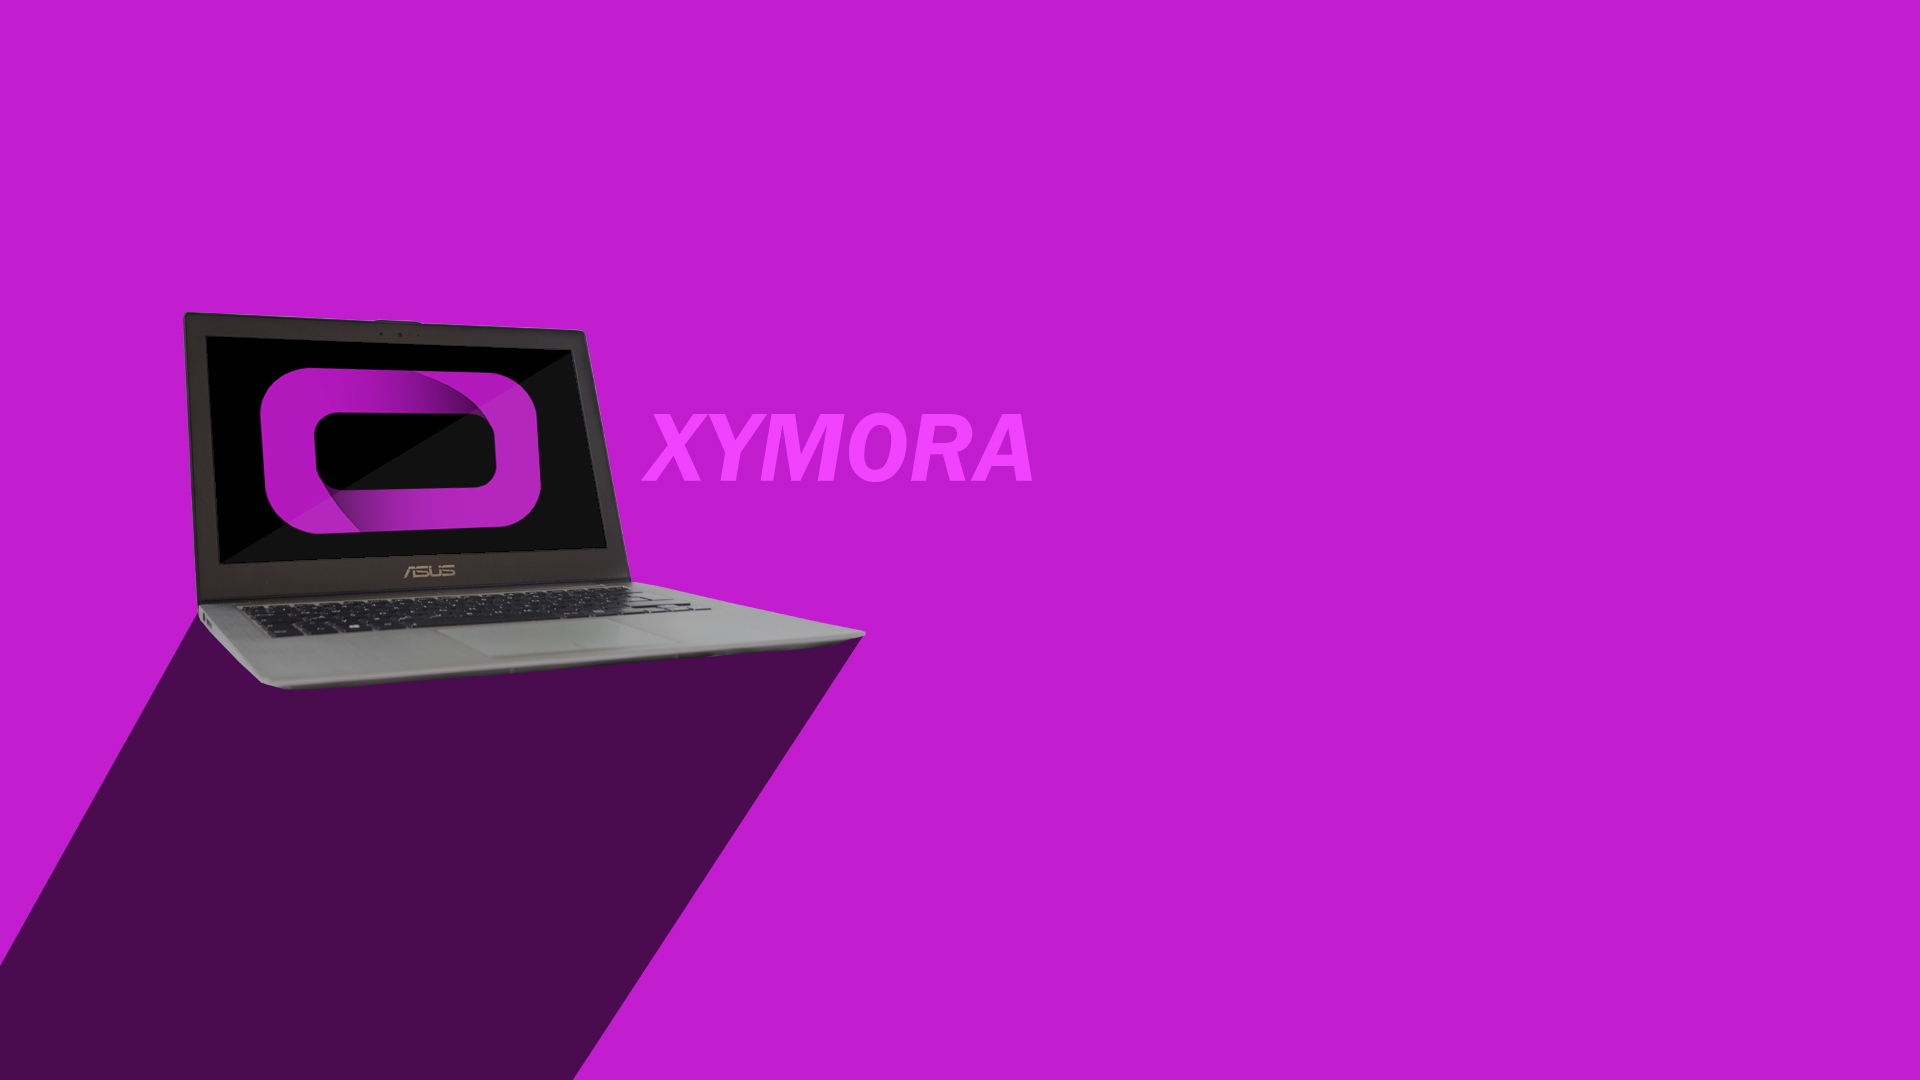
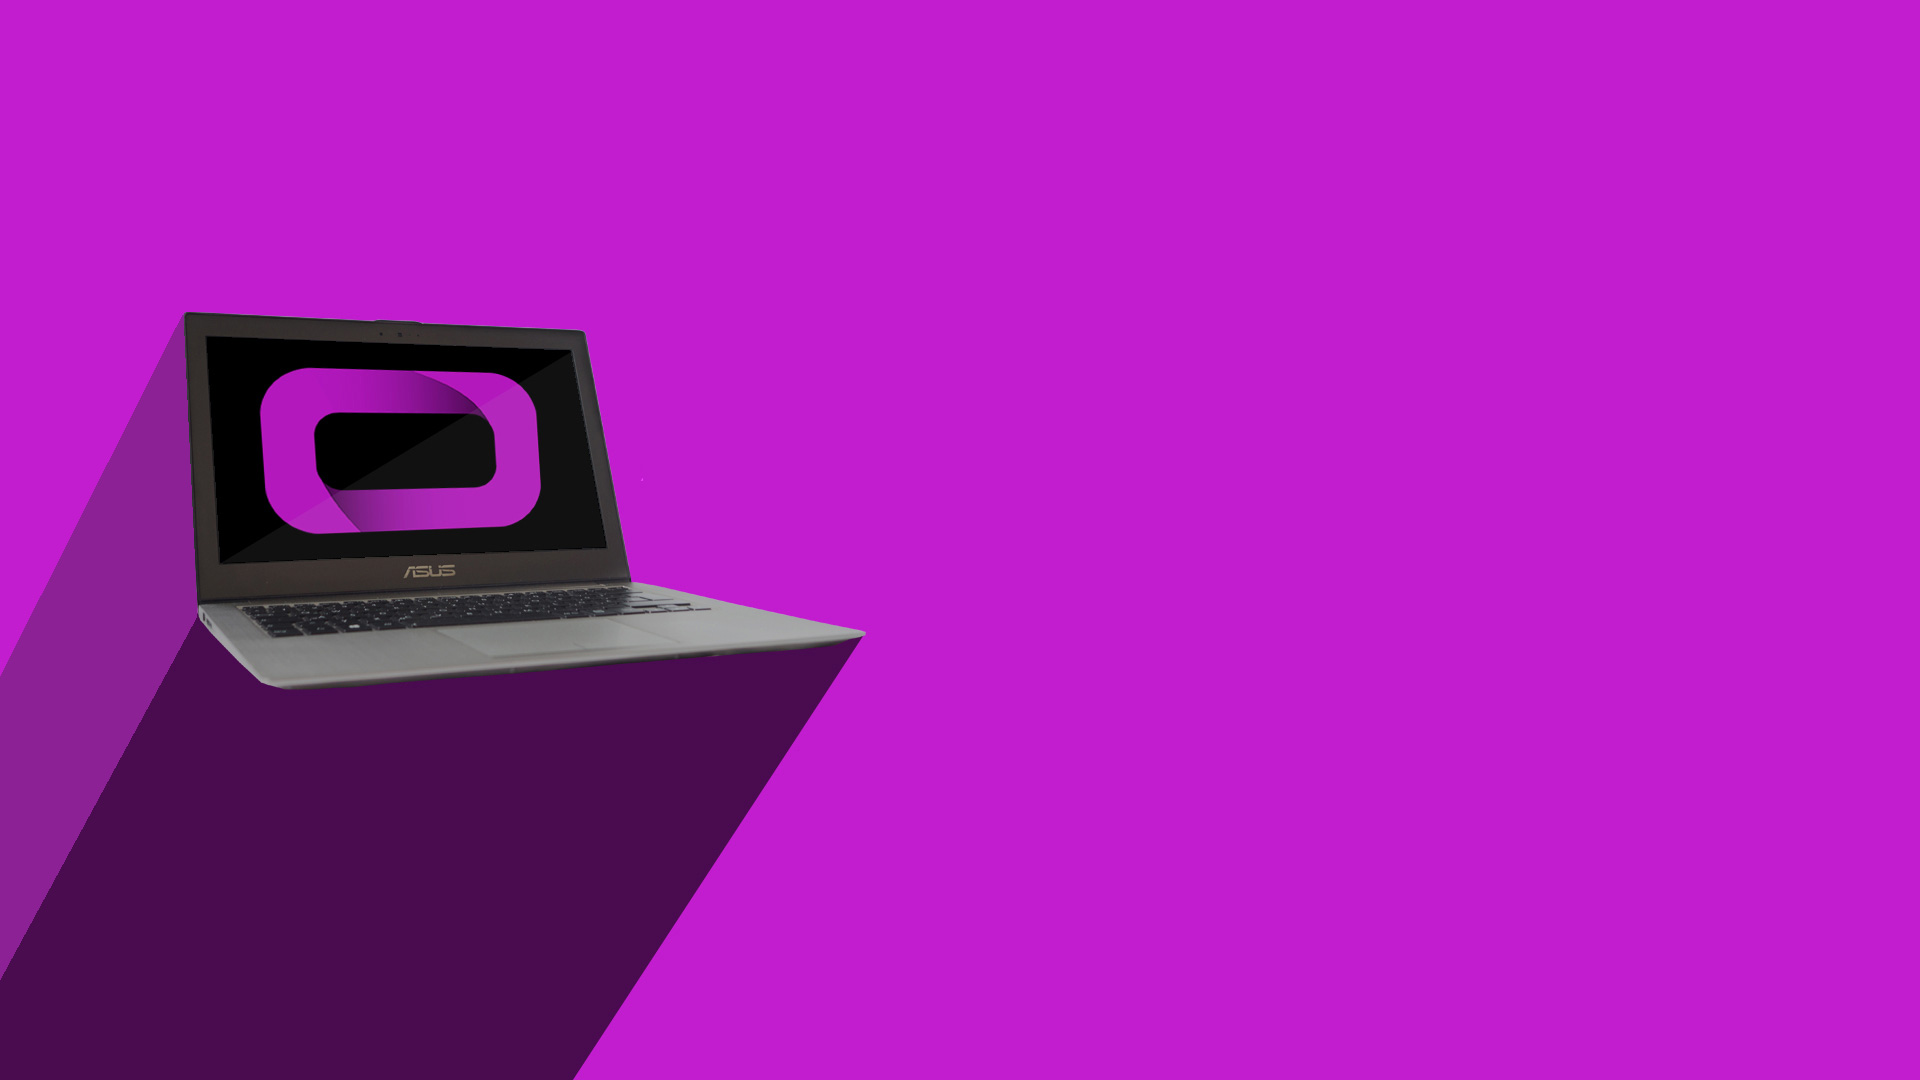
better login background

Changed region(s): [[0.0, 0.3056, 0.125, 0.8861], [0.3125, 0.3667, 0.5625, 0.4583]]

diff --git a/admin/css/login.css b/admin/css/login.css
@@ -21,8 +21,8 @@ h2{
   -o-background-size: cover;
   background-size: cover;
   z-index: 1;
-  -webkit-filter: grayscale(100%) brightness(0.4); /* Chrome, Safari, Opera */
-  filter: grayscale(100%) brightness(0.4);
+  -webkit-filter: grayscale(50%) brightness(0.6); /* Chrome, Safari, Opera */
+  filter: grayscale(40%) brightness(0.6);
 }
 
 .logo{
